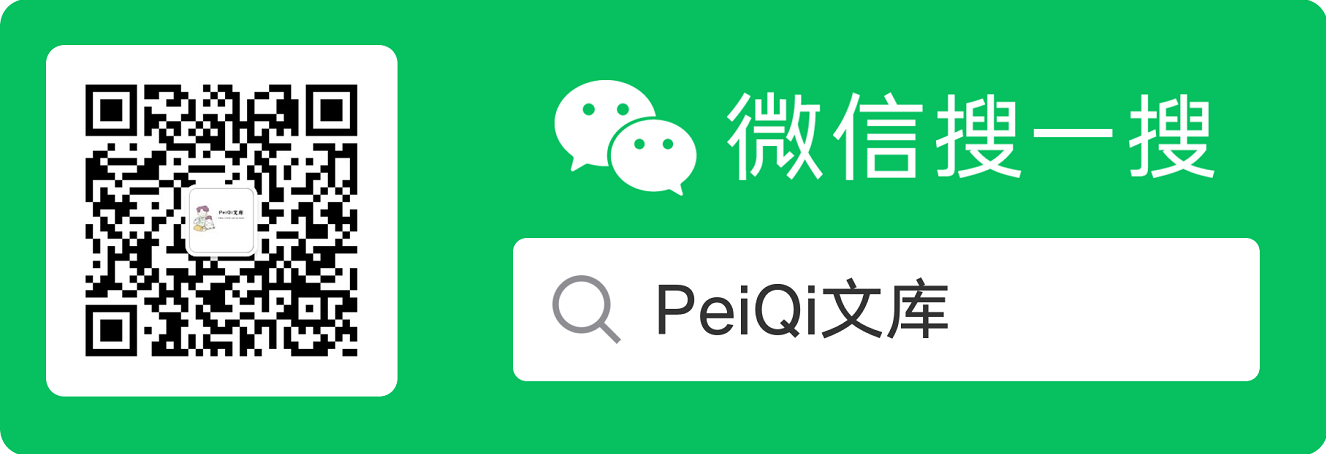
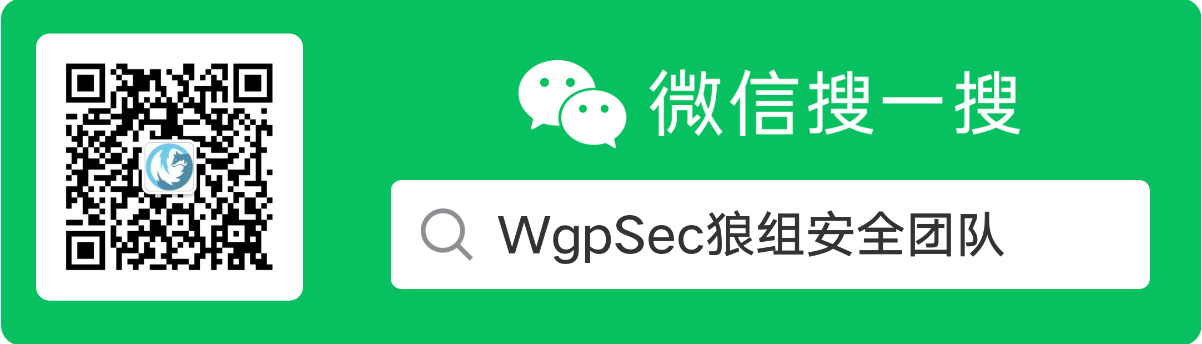
Fix some bug

diff --git a/README.md b/README.md
@@ -1,10 +1,10 @@
-# PeiQI  WiKi文库🐑
+# WgpSec POC文库🐑
 
 ## 关于文库
 
 如今漏洞的各种复现文章已经填满了互联网，但是每次去尝试漏洞复现时，总会纠结于环境搭建，POC和漏洞原理上。
 
-由于这些因素，通常都需要翻阅很多很多的文章才能理解这个漏洞，于是，便萌生了把环境搭建，POC，漏洞原理全部集合在一个文库的想法，PeiQI  WiKi文库便由此而来🐣
+由于这些因素，通常都需要翻阅很多很多的文章才能理解这个漏洞，于是，便萌生了把环境搭建，POC，漏洞原理全部集合在一个文库的想法，WgpSec POC文库便由此而来🐣
 
 ![](PeiQi_Wiki/background/PeiQi文库.gif)
 
@@ -12,13 +12,13 @@
 
 文库使用的是[Gitbook](https://www.gitbook.com/)，因为风格比较清新，简洁。于是便选择了它来搭建文库。
 
-目前Wiki文库是开源的，每一个人都可以下载随时翻阅🐬
+目前POC文库是开源的，每一个人都可以下载随时翻阅🐬
 
-[在线查阅](http://wiki.peiqi.tech)
+[在线查阅](https://poc.wgpsec.org/)
 
-[Github链接](https://github.com/PeiQi0/wiki)
+[Github链接](https://github.com/wgpsec/wiki)
 
-[码云链接](https://gitee.com/yelisenyu/wiki.git)
+[码云链接](https://gitee.com/wgpsec/wiki)
 
 > [!NOTE]
 >
@@ -40,43 +40,34 @@
 
 ![](PeiQi_Wiki/background/image-5.png)
 
-## 如何本地使用
+## 如何离线查看文库
 
 > [!NOTE]
->
-> 1.Github 拉取代码
->
->    git    clone    https://gitee.com/yelisenyu/wiki.git
->
->    git    clone    https://github.com/PeiQi0/wiki.git
->
-> ----------------------------------------------------------------------------------
 
-> 2.下载 gitbook
->
->    apt   install    npm
->
->    npm   install    gitbook-cli   -g
->
-> ----------------------------------------------------
+> [Github（更新快）](https://github.com/wgpsec/wiki/archive/gh-pages.zip)
 
-> 3.打开Wiki的目录下执行
->
->    gitbook   serve
->
-> -----------------------------------------------------------------------------------
+> [Gitee （国内快）](https://gitee.com/wgpsec/wiki/repository/archive/gh-pages.zip)
 
-> 4.访问 http://localhost:4000 即可
 
+## 投稿指南
+
+> [!NOTE]
+
+> 投稿形式为markdown文件，内容要与知识库分类有关联，否则无效，不收录未公开漏洞。
+
+支持两种方式投稿
+
+1. Fork 仓库后编写提交 Pull requests （仅限Github）
+2. 将编辑好的文件投稿至 `peiqi#wgpsec.org` 或联系 `@peiqi` 师傅，标题为`POC文库投稿`。
+
+投稿通过有机会获得 [Plat狼组安全平台](https://plat.wgpsec.org) 邀请码
 
 
 ## 最后
 
-目前文库由我一人维护中，因为文库个人风格原因暂不接受师傅们的投稿。不过师傅们可以提出文库改良的意见给我。
-
 > [!NOTE]
 >
-> 下面就是文库的公众号啦，更新的文章都会在第一时间推送在公众号
+> 下面就是团队的公众号啦，更新的文章都会在第一时间推送在公众号
 >
 > 别忘了Github下载完给个小星星⭐
 

diff --git a/SUMMARY.md b/SUMMARY.md
@@ -145,4 +145,3 @@
 	   * [CISCO ASA设备任意文件读取漏洞 CVE-2020-3452](PeiQi_Wiki/路由器漏洞/Cisco/CISCO ASA设备任意文件读取漏洞 CVE-2020-3452.md)
 	* [Zyxel](PeiQi_Wiki/路由器漏洞/Zyxel/README.md)
 	   * [Zyxel 硬编码后门账户漏洞 CVE-2020-29583](PeiQi_Wiki/路由器漏洞/Zyxel/Zyxel 硬编码后门账户漏洞 CVE-2020-29583.md)
-
